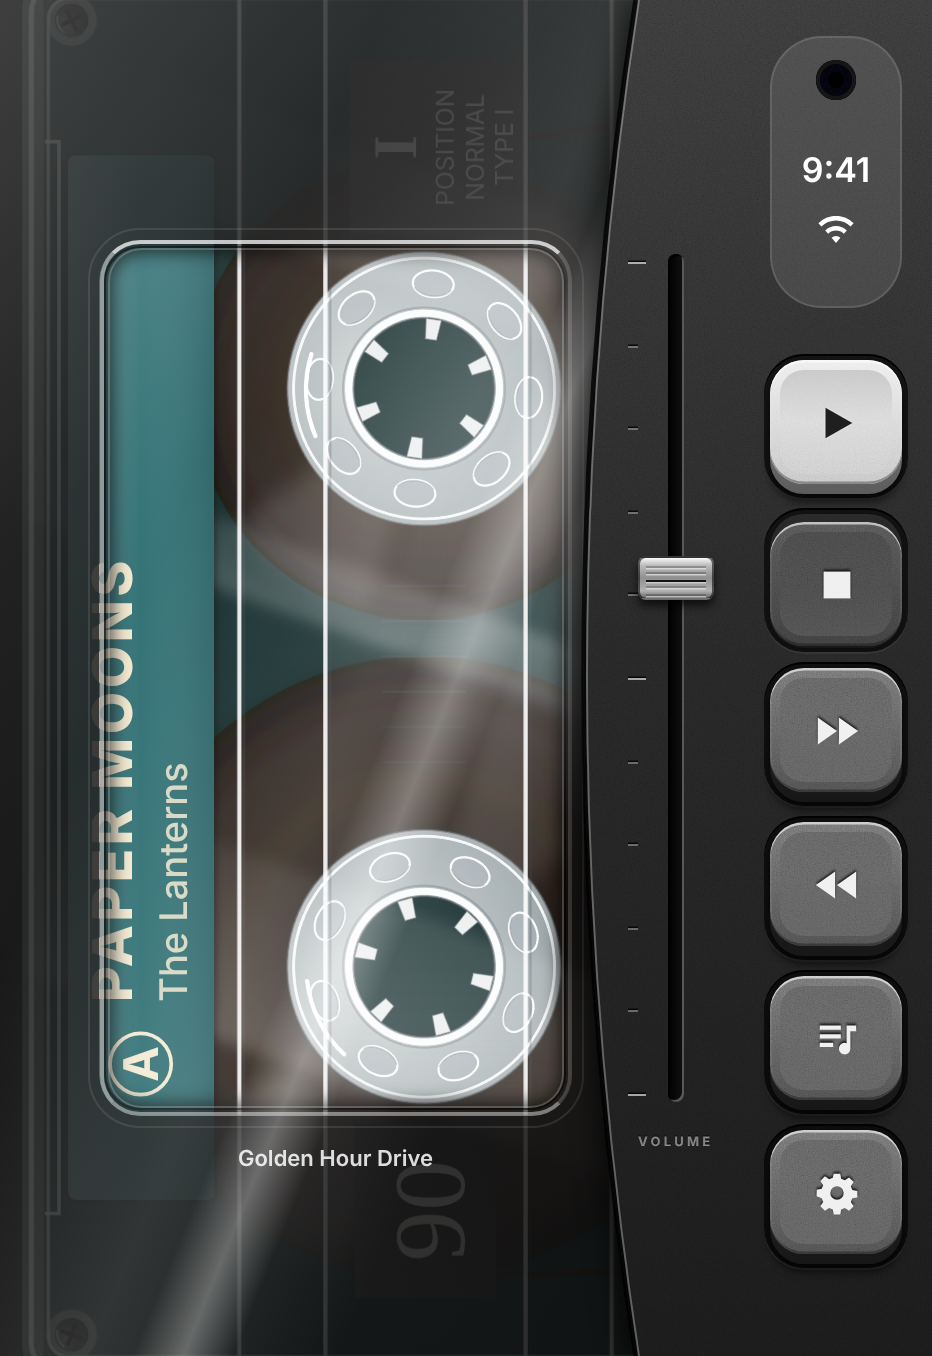
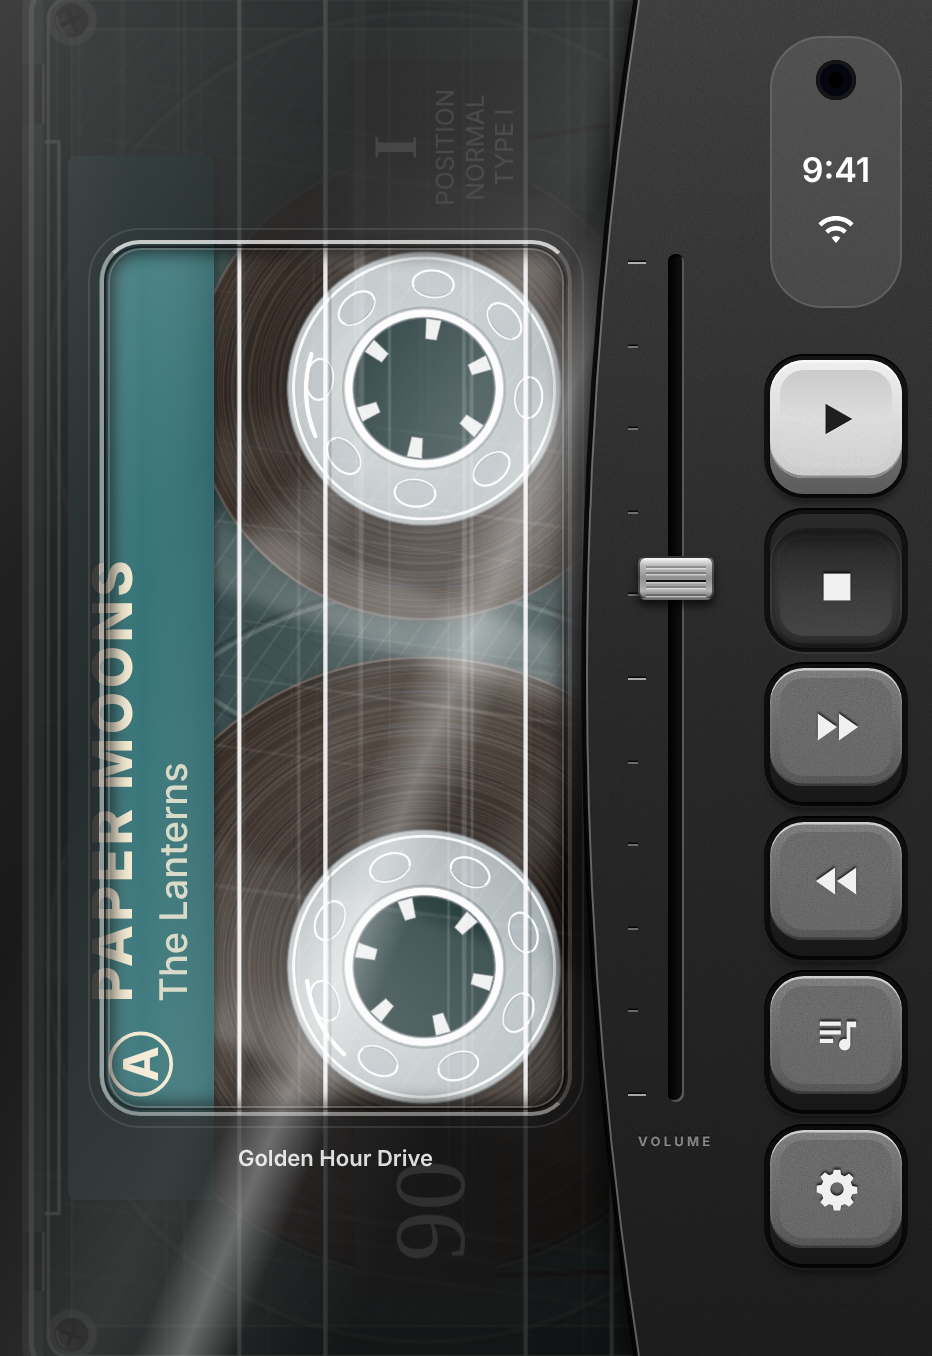
Make the pressed-in key state stronger
A key that is in now sits deeper, has a darker face, loses its lit top
edge and is shaded by the wall of its well.

Claude-Session: https://claude.ai/code/session_015CNmSEpanpmujmbPK8yXHv

diff --git a/TapeDeck/DeckView.swift b/TapeDeck/DeckView.swift
@@ -474,7 +474,7 @@ struct TapeKey: View {
     @State private var pressed = false
 
     /// How far the key moves when pressed.
-    private let travel: CGFloat = 5
+    private let travel: CGFloat = 8
 
     var body: some View {
         let down = pressed || latched
@@ -493,7 +493,7 @@ struct TapeKey: View {
         .frame(maxWidth: .infinity)
         // The face is shorter than the key, leaving its side showing below.
         .frame(height: height - travel)
-        .background(KeyCap(corner: corner, colors: keyColors(down: down)))
+        .background(KeyCap(corner: corner, colors: keyColors(down: down), sunk: down))
         // Pressed, the face sinks until the side is hidden.
         .offset(y: down ? travel - 1 : 0)
         .frame(height: height, alignment: .top)
@@ -546,12 +546,12 @@ struct TapeKey: View {
         if accent {
             // The play key: plain pale plastic, so it stands out without colour
             return down
-                ? [Color(white: 0.74), Color(white: 0.64)]
+                ? [Color(white: 0.58), Color(white: 0.50)]
                 : [Color(white: 0.92), Color(white: 0.74)]
         }
         // Dark plastic, like the panel the keys sit in
         return down
-            ? [Color(white: 0.30), Color(white: 0.22)]
+            ? [Color(white: 0.22), Color(white: 0.16)]
             : [Color(white: 0.41), Color(white: 0.28)]
     }
 }
@@ -561,6 +561,9 @@ struct TapeKey: View {
 private struct KeyCap: View {
     let corner: CGFloat
     let colors: [Color]
+    /// Pressed in: the face sits down inside its well, so the well's upper
+    /// wall throws a shadow across it and its top edge is no longer lit.
+    var sunk = false
 
     var body: some View {
         let shape = RoundedRectangle(cornerRadius: corner)
@@ -572,10 +575,20 @@ private struct KeyCap: View {
                 .fill(LinearGradient(colors: [Color.black.opacity(0.14), .clear, Color.white.opacity(0.09)],
                                      startPoint: .top, endPoint: .bottom))
                 .padding(5)
-            shape.strokeBorder(LinearGradient(colors: [Color.white.opacity(0.62), Color.white.opacity(0.08),
+            shape.strokeBorder(LinearGradient(colors: [Color.white.opacity(sunk ? 0.10 : 0.62),
+                                                       Color.white.opacity(0.08),
                                                        Color.black.opacity(0.32)],
                                               startPoint: .top, endPoint: .bottom),
                                lineWidth: 1.2)
+            if sunk {
+                shape.fill(LinearGradient(stops: [
+                    .init(color: Color.black.opacity(0.60), location: 0),
+                    .init(color: Color.black.opacity(0.22), location: 0.22),
+                    .init(color: .clear, location: 0.55)
+                ], startPoint: .top, endPoint: .bottom))
+                // The sides of the well shade the edges too
+                shape.strokeBorder(Color.black.opacity(0.35), lineWidth: 3).blur(radius: 2).clipShape(shape)
+            }
         }
     }
 }
